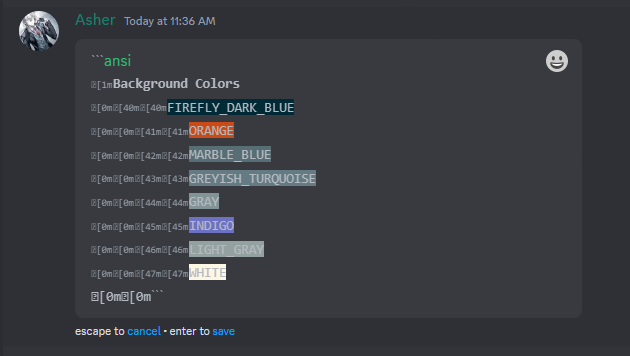
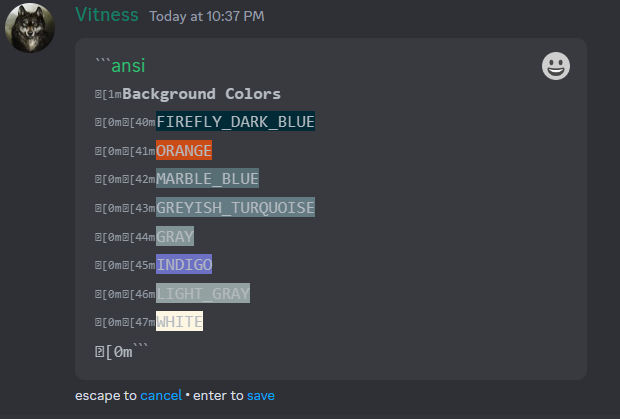
Fix double ansi codes in ansi guide

diff --git a/docs/markdown-and-ansi.md b/docs/markdown-and-ansi.md
@@ -162,8 +162,7 @@ class AnsiBuilder:
         return self
 
     def __str__(self) -> str:
-        text = f"\033[{';'.join(map(str, self.styles))}m{self.text}\033[0m" if self.styles and self.text else self.text
-        return text
+        return self.text
 
     @classmethod
     def to_ansi(cls, text: str, *styles: Style) -> str:
@@ -214,12 +213,11 @@ async def style(ctx: commands.Context[commands.Bot]) -> None:
 @bot.command()
 async def combo(ctx: commands.Context[commands.Bot]) -> None:
     # combination of all foreground colors on all background colors
-    combined = AnsiBuilder("", Styles.BOLD)
     for bg in BackgroundColors:
+        combined = AnsiBuilder()
         for fg in Colors:
             combined += f"{AnsiBuilder.to_ansi('Sample', fg, bg)} "
         await ctx.send(combined.block)
-        combined = AnsiBuilder("", Styles.BOLD)
 
 
 @bot.command()
@@ -228,7 +226,7 @@ async def style_combo(ctx: commands.Context[commands.Bot], style_: str) -> None:
         await ctx.send("Invalid style")
         return
     _style = Styles[style_]
-    combined = AnsiBuilder("")
+    combined = AnsiBuilder()
     for fg in Colors:
         combined += f"{AnsiBuilder.to_ansi('Sample', fg, _style)} "
     await ctx.send(combined.block)
